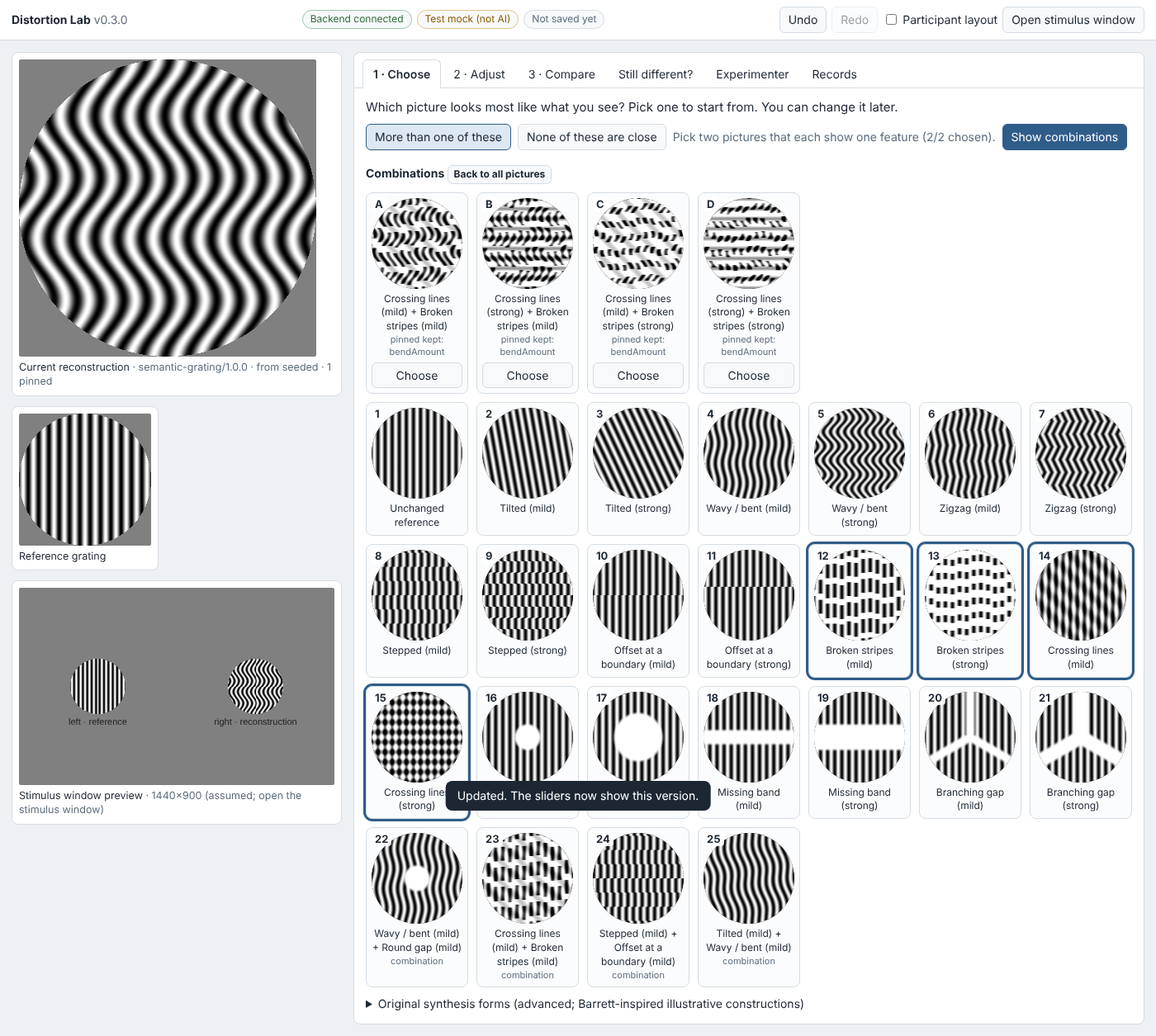
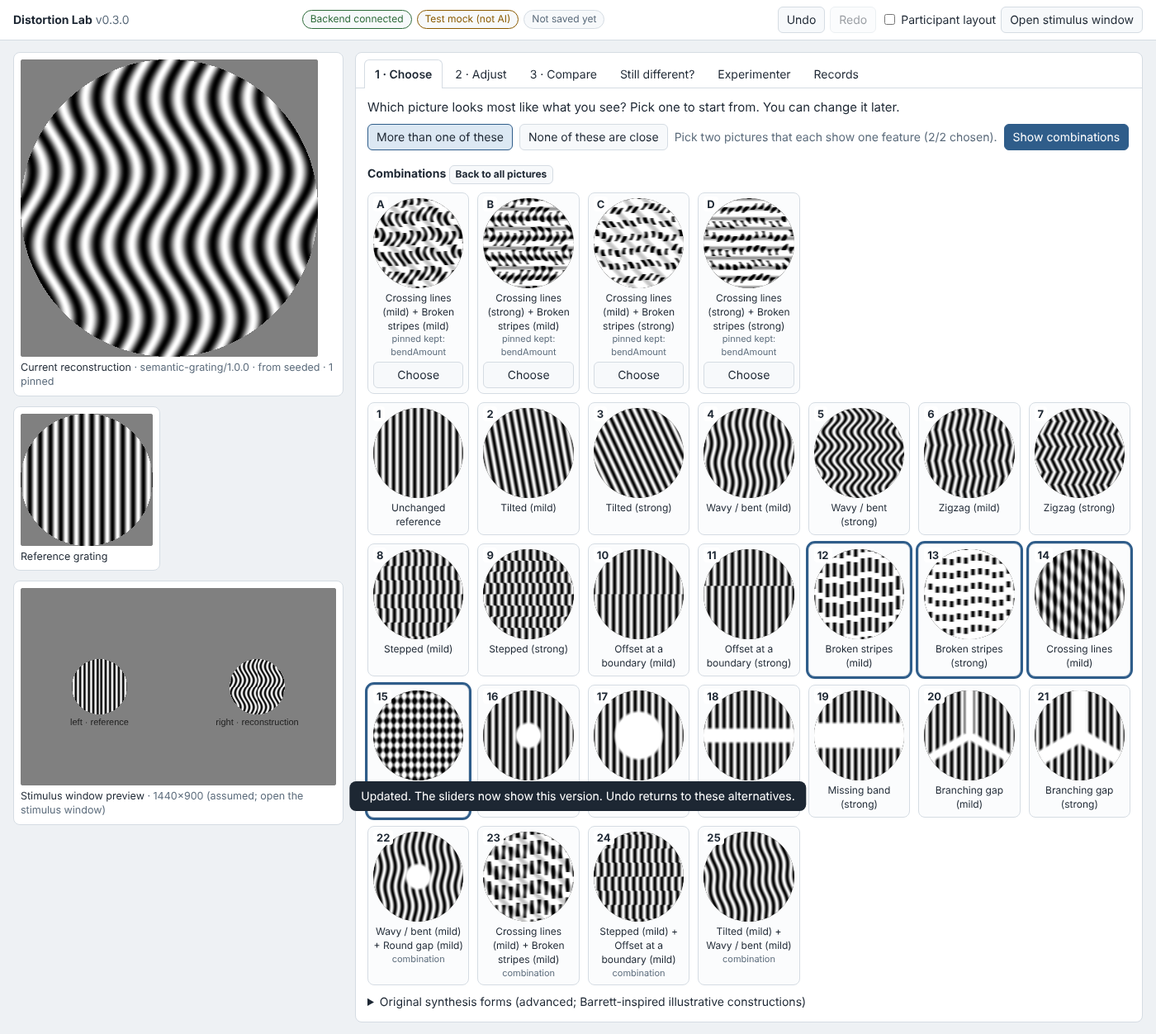
Compare: preview candidates full size without choosing; revise choice after undo
- Click a candidate (or use left/right arrows) to show it in the main view
  and, optionally, the stimulus window; 'Choose' and 'Back to current' bar
- 'Large pictures' option for the candidate grid
- Alternatives stay visible after choosing; Undo makes them choosable again
  and every choice is recorded in the set's choices list

Claude-Session: https://claude.ai/code/session_01EffKJB2Sk7JoAKuDAxyw6q

diff --git a/web/js/app.js b/web/js/app.js
@@ -13,7 +13,7 @@
   var backend = false, aiStatus = { provider: 'none', connected: false, label: 'AI off', detail: '' };
   var ui = { tab: 'gallery', selectedComponent: null, multi: false, multiSel: [], comboSet: null, currentSet: null, marking: false,
     region: null, structureKey: null, galleryKey: null, seqStart: Date.now(), stimWin: null, display: null, pendingResume: false,
-    descContext: 'still-different', saveState: { local: null, server: null, error: null }, lastDesc: null, aiSet: null };
+    preview: null, descContext: 'still-different', saveState: { local: null, server: null, error: null }, lastDesc: null, aiSet: null };
   var bc = ('BroadcastChannel' in window) ? new BroadcastChannel('distortion-lab-v2') : null;
 
   // ------------------------------------------------------------------ helpers
@@ -75,7 +75,7 @@
     undo: function () { return act(function () { var r = C.undo(S); if (!r) toast('Nothing to undo'); return r; }, true); },
     redo: function () { return act(function () { var r = C.redo(S); if (!r) toast('Nothing to redo'); return r; }, true); },
     chooseGallery: function (id) { return act(function () { return C.chooseGallery(S, id); }); },
-    requestAlternatives: function (o) { var r = act(function () { return C.requestAlternatives(S, o || {}); }); if (r) { ui.currentSet = r.id; refresh(); } return r; },
+    requestAlternatives: function (o) { ui.preview = null; var r = act(function () { return C.requestAlternatives(S, o || {}); }); if (r) { ui.currentSet = r.id; refresh(); } return r; },
     choose: function (setId, candId) { return act(function () { return C.chooseCandidate(S, setId, candId); }); },
     combine: function (a, b) { return act(function () { return C.combine(S, a, b); }); },
     setLayout: function (k, v) { return act(function () { return C.setLayout(S, k, v); }); },
@@ -121,7 +121,25 @@
   window.addEventListener('beforeunload', function () { if (!ui.pendingResume && S) saveLocal(); });
 
   // ------------------------------------------------------------------ stimulus window link
-  function stimMessage() { return { type: 'state', reference: S.reference, recon: S.work.recon, layout: S.layout, seqStart: ui.seqStart, sessionId: S.sessionId }; }
+  /** The candidate being previewed (shown large and optionally in the stimulus window), or null. */
+  function previewInfo() {
+    if (!ui.preview) return null;
+    var rec = S.proposals.filter(function (p) { return p.id === ui.preview.setId; })[0];
+    var idx = rec ? rec.candidates.map(function (c) { return c.id; }).indexOf(ui.preview.candId) : -1;
+    if (idx < 0) { ui.preview = null; return null; }
+    return { rec: rec, cand: rec.candidates[idx], letter: String.fromCharCode(65 + idx), choosable: C.canChoose(S, rec.id) };
+  }
+  function setPreview(setId, candId) {
+    var same = ui.preview && ui.preview.setId === setId && ui.preview.candId === candId;
+    ui.preview = (candId && !same) ? { setId: setId, candId: candId } : null;
+    if (ui.preview) C.log(S, 'preview-candidate', { set: setId, candidate: candId });
+    refresh(); broadcast(); scheduleSave();
+  }
+  function stimMessage() {
+    var pv = previewInfo();
+    var recon = pv && $('previewOnStim').checked ? pv.cand.recon : S.work.recon;
+    return { type: 'state', reference: S.reference, recon: recon, layout: S.layout, seqStart: ui.seqStart, sessionId: S.sessionId, previewing: !!(pv && $('previewOnStim').checked) };
+  }
   function broadcast() {
     if (!S) return;
     var m = stimMessage();
@@ -140,7 +158,15 @@
   function drawMain() {
     var c = $('reconCanvas'), n = Math.round(360 * DPR);
     if (c.width !== n) { c.width = c.height = n; }
-    D.drawSingle(c, S.work.recon, geom());
+    var pv = previewInfo();
+    D.drawSingle(c, pv ? pv.cand.recon : S.work.recon, geom());
+    $('previewBar').hidden = !pv;
+    $('reconTitle').textContent = pv ? 'Previewing ' + pv.letter + ' (not chosen)' : 'Current reconstruction';
+    if (pv) {
+      $('previewText').textContent = pv.choosable ? 'Previewing ' + pv.letter + '. Nothing has changed yet.' : 'Previewing ' + pv.letter + ' from an earlier set (Undo to choose it).';
+      $('previewChoose').textContent = 'Choose ' + pv.letter;
+      $('previewChoose').hidden = !pv.choosable;
+    }
     var r = $('refCanvas'), m = Math.round(160 * DPR);
     if (r.width !== m) { r.width = r.height = m; }
     D.drawSingle(r, C.referenceRecon(S.reference), geom());
@@ -155,7 +181,7 @@
     c.style.aspectRatio = disp.w + ' / ' + disp.h;
     var W = Math.round(cssW * DPR), H = Math.round(cssH * DPR);
     if (c.width !== W || c.height !== H) { c.width = W; c.height = H; }
-    var info = D.drawDisplay(c.getContext('2d'), cssW, cssH, DPR, { reference: S.reference, recon: S.work.recon, layout: S.layout },
+    var info = D.drawDisplay(c.getContext('2d'), cssW, cssH, DPR, { reference: S.reference, recon: stimMessage().recon, layout: S.layout },
       { scale: cssW / disp.w, labels: true, now: Date.now(), timing: { seqStart: ui.seqStart } });
     // Warnings are evaluated at full stimulus-window scale.
     var n = Math.max(8, Math.min(2048, Math.ceil(S.layout.diameter * S.layout.ppd * ((ui.display && ui.display.dpr) || 1))));
@@ -385,17 +411,38 @@
     if (rec.source === 'combination') info.push('combinations of ' + (rec.settings.families || []).join(' + '));
     if (rec.pinnedInFocus && rec.pinnedInFocus.length) info.push('pinned and left unchanged: ' + rec.pinnedInFocus.join(', '));
     if (rec.reason) info.push(rec.reason);
-    if (rec.choice) info.push(rec.choice === 'keep' ? 'You kept the current version.' : 'You chose ' + rec.choice.replace('p', '#') + '. Adjust further, or ask for more alternatives.');
-    if (stale && !rec.choice) info.push('These alternatives were made for an earlier version. Request new ones.');
+    var choosable = !stale;
+    if (rec.choice && rec.choice !== 'keep' && stale) info.push('You chose ' + String.fromCharCode(65 + Number(rec.choice.slice(1))) + '. Undo to come back to these and choose a different one, or ask for more alternatives.');
+    else if (rec.choice === 'keep') info.push('You kept the current version. You can still choose one of these.');
+    else if (stale) info.push('These alternatives were made for an earlier version. Request new ones.');
     $('altInfo').textContent = info.join(' · ');
-    if (rec.choice) return;
-    box.append(tile({ id: 'current', recon: S.work.recon, badge: '★', caption: 'Current', current: true, px: 150,
-      button: el('button', { text: 'Keep current', disabled: stale, onclick: function () { Lab.choose(rec.id, 'keep'); } }) }));
+    var big = !!S.settings.bigCandidates, px = big ? 300 : 150;
+    box.classList.toggle('big', big);
+    var pv = ui.preview && ui.preview.setId === rec.id ? ui.preview.candId : null;
+    var cur = tile({ id: 'current', recon: S.work.recon, badge: '★', caption: 'Current', current: !pv, px: px,
+      onclick: function () { setPreview(null, null); },
+      button: el('button', { text: 'Keep current', disabled: !choosable, onclick: function (e) { e.stopPropagation(); ui.preview = null; Lab.choose(rec.id, 'keep'); } }) });
+    box.append(cur);
     rec.candidates.forEach(function (c, i) {
-      box.append(tile({ id: c.id, recon: c.recon, badge: String.fromCharCode(65 + i), caption: c.label, px: 150,
+      var L = String.fromCharCode(65 + i), chosen = rec.choice === c.id && stale;
+      var t = tile({ id: c.id, recon: c.recon, badge: L + (chosen ? ' ✓' : ''), caption: c.label, px: px,
         sub: c.changes && c.changes.length ? c.changes.map(function (x) { return x.path + ' ' + fmt(x.from) + '→' + fmt(x.to); }).join('; ') : (c.rationale || ''),
-        button: el('button', { text: 'Choose ' + String.fromCharCode(65 + i), disabled: stale, onclick: function () { if (Lab.choose(rec.id, c.id)) toast('Updated. The sliders now show this version.'); } }) }));
+        onclick: function () { setPreview(rec.id, c.id); },
+        button: el('button', { text: chosen ? 'Chosen' : 'Choose ' + L, disabled: !choosable, onclick: function (e) {
+          e.stopPropagation(); ui.preview = null; if (Lab.choose(rec.id, c.id)) toast('Updated. The sliders now show this version. Undo returns to these alternatives.'); } }) });
+      if (pv === c.id) t.classList.add('previewing');
+      if (!choosable) t.classList.add('stale');
+      box.append(t);
     });
+  }
+  function cyclePreview(dir) {
+    var rec = ui.currentSet && S.proposals.filter(function (p) { return p.id === ui.currentSet; })[0];
+    if (!rec || !rec.candidates.length) return;
+    var ids = [null].concat(rec.candidates.map(function (c) { return c.id; }));
+    var cur = ui.preview && ui.preview.setId === rec.id ? ids.indexOf(ui.preview.candId) : 0;
+    var next = ids[(cur + dir + ids.length) % ids.length];
+    ui.preview = null;
+    setPreview(rec.id, next);
   }
 
   // ------------------------------------------------------------------ describe
@@ -629,6 +676,7 @@
 
   // ------------------------------------------------------------------ tabs, refresh
   function switchTab(t) {
+    if (t !== ui.tab && ui.preview) { ui.preview = null; broadcast(); }
     ui.tab = t;
     document.querySelectorAll('.tabs [data-tab]').forEach(function (b) { b.classList.toggle('active', b.dataset.tab === t); b.setAttribute('aria-selected', String(b.dataset.tab === t)); });
     document.querySelectorAll('.tab').forEach(function (p) { p.hidden = p.id !== 'tab-' + t; });
@@ -644,6 +692,7 @@
     document.querySelectorAll('input[name=propScale]').forEach(function (r) { r.checked = r.value === S.settings.proposalScale; });
     $('showAdvanced').checked = S.settings.includeAdvanced;
     $('shrink').checked = S.settings.shrinkRepeated;
+    $('bigCands').checked = !!S.settings.bigCandidates;
     $('showLabels').checked = S.settings.showLabels;
     document.body.classList.toggle('nolabels', !S.settings.showLabels || $('participantMode').checked);
     drawMain();
@@ -688,6 +737,14 @@
   $('showAdvanced').addEventListener('change', function (e) { S.settings.includeAdvanced = e.target.checked; ui.structureKey = null; refresh(); scheduleSave(); });
   $('shrink').addEventListener('change', function (e) { S.settings.shrinkRepeated = e.target.checked; scheduleSave(); });
   $('showLabels').addEventListener('change', function (e) { S.settings.showLabels = e.target.checked; refresh(); scheduleSave(); });
+  $('bigCands').addEventListener('change', function (e) { S.settings.bigCandidates = e.target.checked; refresh(); scheduleSave(); });
+  $('previewOnStim').addEventListener('change', function () { broadcast(); });
+  $('previewBack').addEventListener('click', function () { setPreview(null, null); });
+  $('previewChoose').addEventListener('click', function () {
+    var pv = previewInfo(); if (!pv) return;
+    ui.preview = null;
+    if (Lab.choose(pv.rec.id, pv.cand.id)) toast('Chose ' + pv.letter + '. Undo returns to these alternatives.');
+  });
   $('showAlts').addEventListener('click', function () { Lab.requestAlternatives({ focus: $('altFocus').value }); });
   $('repeatAlts').addEventListener('click', function () { Lab.requestAlternatives({ focus: $('altFocus').value, repeat: true }); });
   $('markRegion').addEventListener('click', function () { ui.marking = !ui.marking; $('markRegion').classList.toggle('active', ui.marking); $('reconCanvas').parentElement.classList.toggle('marking', ui.marking); if (ui.marking) toast('Drag on the picture to mark the area.'); });
@@ -744,6 +801,11 @@
     var t = e.target;
     if (t.tagName === 'TEXTAREA' || (t.tagName === 'INPUT' && (t.type === 'text' || !t.type))) return;
     var mod = e.metaKey || e.ctrlKey, k = e.key.toLowerCase();
+    if (ui.tab === 'alternatives' && !mod && t.tagName !== 'SELECT' && t.tagName !== 'INPUT') {
+      if (e.key === 'ArrowRight') { e.preventDefault(); cyclePreview(1); return; }
+      if (e.key === 'ArrowLeft') { e.preventDefault(); cyclePreview(-1); return; }
+      if (e.key === 'Escape' && ui.preview) { e.preventDefault(); setPreview(null, null); return; }
+    }
     if (mod && k === 'z' && !e.shiftKey) { e.preventDefault(); Lab.undo(); }
     else if ((mod && k === 'z' && e.shiftKey) || (mod && k === 'y')) { e.preventDefault(); Lab.redo(); }
   });

diff --git a/web/js/core.js b/web/js/core.js
@@ -835,28 +835,36 @@
   /** Choose a candidate (or 'keep'). Keep current never changes the reconstruction. */
   function chooseCandidate(s, setId, candId) {
     var rec = findSet(s, setId);
-    if (rec.choice !== null) fail('A choice was already recorded for ' + setId);
+    var isBase = JSON.stringify(rec.base.recon) === JSON.stringify(s.work.recon);
+    if (!isBase)
+      throw cannotApply(rec.choice !== null && rec.choice !== 'keep'
+        ? 'You already chose from these alternatives. Undo back to the version they were made from to choose a different one, or request new alternatives.'
+        : 'The reconstruction changed after these alternatives were shown. Request new alternatives.');
+    if (!rec.choices) rec.choices = rec.choice !== null ? [{ choice: rec.choice, time: rec.choiceTime }] : [];
     if (candId === 'keep') {
-      rec.choice = 'keep'; rec.choiceTime = nowISO();
-      if (JSON.stringify(rec.base.recon) === JSON.stringify(s.work.recon))
-        s.neighborhood = { round: rec.settings && rec.settings.round || 0, anchor: JSON.stringify(s.work.recon) };
+      rec.choice = 'keep'; rec.choiceTime = nowISO(); rec.choices.push({ choice: 'keep', time: rec.choiceTime });
+      s.neighborhood = { round: rec.settings && rec.settings.round || 0, anchor: JSON.stringify(s.work.recon) };
       log(s, 'keep-current', { set: setId });
       return false;
     }
     var c = rec.candidates.filter(function (x) { return x.id === candId; })[0];
     if (!c) fail('Unknown candidate ' + candId);
-    if (JSON.stringify(rec.base.recon) !== JSON.stringify(s.work.recon))
-      throw cannotApply('The reconstruction changed after these alternatives were shown. Request new alternatives.');
     // Re-check pins at choice time (pins may have been added since display).
     var r = withPins(s.work, validateRecon(c.recon));
     var violated = s.work.pins.filter(function (p) { return JSON.stringify(getValue(c.recon, p)) !== JSON.stringify(getValue(s.work.recon, p)); });
     if (violated.length) throw cannotApply('This alternative would change pinned ' + violated.join(', ') + '. Request new alternatives.', violated);
     var anchorRound = rec.settings && rec.settings.round || 0;
+    var revised = rec.choices.length > 0;
     commit(s, { recon: r.recon, pins: s.work.pins.slice(), origin: { type: rec.source, set: setId, candidate: candId } },
-      { action: 'choose-candidate', label: 'Choose alternative ' + candId, detail: { set: setId, candidate: candId, changes: c.changes } });
-    rec.choice = candId; rec.choiceTime = nowISO();
+      { action: 'choose-candidate', label: 'Choose alternative ' + candId, detail: { set: setId, candidate: candId, changes: c.changes, revisedChoice: revised } });
+    rec.choice = candId; rec.choiceTime = nowISO(); rec.choices.push({ choice: candId, time: rec.choiceTime });
     s.neighborhood = { round: anchorRound, anchor: JSON.stringify(s.work.recon) };
     return true;
+  }
+  /** Can a choice be made from this set now (i.e. is the reconstruction still the set's base)? */
+  function canChoose(s, setId) {
+    var rec = findSet(s, setId);
+    return JSON.stringify(rec.base.recon) === JSON.stringify(s.work.recon);
   }
 
   // ---------------------------------------------------------------- descriptions, outcome, acceptance
@@ -1024,7 +1032,7 @@
     addComponent: addComponent, removeComponent: removeComponent, mixLegacy: mixLegacy,
     galleryItems: galleryItems, galleryItem: galleryItem, galleryFamily: galleryFamily, templateRecon: templateRecon, combinationRecons: combinationRecons,
     chooseGallery: chooseGallery, recordGalleryOutcome: recordGalleryOutcome,
-    generateProposals: generateProposals, requestAlternatives: requestAlternatives, recordCandidates: recordCandidates, combine: combine, chooseCandidate: chooseCandidate,
+    generateProposals: generateProposals, requestAlternatives: requestAlternatives, recordCandidates: recordCandidates, combine: combine, chooseCandidate: chooseCandidate, canChoose: canChoose,
     captureDescription: captureDescription, setOutcome: setOutcome, accept: accept, setReference: setReference, setLayout: setLayout, eyeRouting: eyeRouting,
     applyOperations: applyOperations, aiContext: aiContext, importSession: importSession, devRequest: devRequest
   };

diff --git a/tests/e2e.js b/tests/e2e.js
@@ -98,7 +98,7 @@ function post(port, p, body) {
     assert(set.candidates.length > 0, 'candidates shown');
     assert(set.candidates.every((c) => c.recon.params.bendAmount === pinnedVal), 'pin respected');
     await shot('03-compare');
-    await page.click('text=Choose B');
+    await page.click('#candidates button:has-text("Choose B")');
     const w = await work();
     assert(J(w.recon) === J(set.candidates[1].recon), 'candidate applied');
     await page.click('[data-tab=adjust]');
@@ -113,7 +113,7 @@ function post(port, p, body) {
     await page.click('#repeatAlts');
     let s = await sess();
     assert(s.proposals[s.proposals.length - 1].settings.round === 1, 'round 1');
-    await page.click('text=Keep current');
+    await page.click('#candidates button:has-text("Keep current")');
     assert(J(await work()) === before);
     s = await sess();
     assert(s.proposals[s.proposals.length - 1].choice === 'keep');
@@ -121,6 +121,37 @@ function post(port, p, body) {
     await page.click('#showAlts');
     s = await sess();
     assert(s.proposals[s.proposals.length - 1].settings.scale === 'fine');
+  });
+
+  await step('preview a candidate large without choosing; choose from preview; undo and choose another', async () => {
+    await page.click('[data-tab=alternatives]');
+    await page.check('input[name=propScale][value=coarse]');
+    await page.click('#showAlts');
+    const before = J(await work());
+    const s = await sess();
+    const set = s.proposals[s.proposals.length - 1];
+    await page.click('#candidates [data-id="p1"] canvas');
+    assert((await page.textContent('#reconTitle')).includes('Previewing B'), 'preview title');
+    assert(J(await work()) === before, 'preview does not change the reconstruction');
+    const big = await page.evaluate(() => { const c = document.getElementById('reconCanvas'); return c.toDataURL(); });
+    await page.keyboard.press('ArrowRight');
+    assert((await page.textContent('#reconTitle')).includes('Previewing C'), 'arrow cycles');
+    const big2 = await page.evaluate(() => document.getElementById('reconCanvas').toDataURL());
+    assert(big !== big2, 'large view changes with preview');
+    await page.check('#bigCands');
+    assert(await page.evaluate(() => document.getElementById('candidates').classList.contains('big')));
+    await shot('03b-preview');
+    await page.click('#previewChoose');
+    assert(J((await work()).recon) === J(set.candidates[2].recon), 'chose C from preview');
+    assert((await page.textContent('#reconTitle')) === 'Current reconstruction');
+    assert(await page.isVisible('#candidates [data-id="p0"]'), 'alternatives still visible after choosing');
+    await page.click('#undo');
+    assert(J(await work()) === before, 'undo back to the set base');
+    await page.click('#candidates button:has-text("Choose A")');
+    assert(J((await work()).recon) === J(set.candidates[0].recon), 'different choice after undo');
+    const rec = (await sess()).proposals.find((p) => p.id === set.id);
+    assert(J(rec.choices.map((c) => c.choice)) === J(['p2', 'p0']), J(rec.choices));
+    await page.uncheck('#bigCands');
   });
 
   await step('more-than-one: combine two features; pins kept; choice revisable', async () => {

diff --git a/web/index.html b/web/index.html
@@ -42,7 +42,12 @@
         <canvas id="reconCanvas" width="360" height="360" aria-label="Current reconstruction"></canvas>
         <div id="markOverlay" class="mark" hidden></div>
       </div>
-      <figcaption>Current reconstruction <span id="reconInfo" class="muted researcher"></span></figcaption>
+      <div id="previewBar" class="preview-bar" hidden>
+        <span id="previewText"></span>
+        <button id="previewChoose" class="primary small">Choose</button>
+        <button id="previewBack" class="small">Back to current</button>
+      </div>
+      <figcaption><span id="reconTitle">Current reconstruction</span> <span id="reconInfo" class="muted researcher"></span></figcaption>
     </figure>
     <figure class="view">
       <canvas id="refCanvas" width="160" height="160" aria-label="Reference grating"></canvas>
@@ -115,6 +120,11 @@
         <label><input type="radio" name="propScale" value="coarse" checked> larger differences</label>
         <label><input type="radio" name="propScale" value="fine"> smaller differences</label>
         <label class="toggle" title="Each repeat around the same version uses smaller differences"><input type="checkbox" id="shrink" checked> shrink on repeat</label>
+      </div>
+      <div class="row wrap">
+        <label class="toggle"><input type="checkbox" id="bigCands"> large pictures</label>
+        <label class="toggle researcher" title="While previewing, the stimulus window shows the previewed version in the reconstruction position"><input type="checkbox" id="previewOnStim" checked> show previews in the stimulus window</label>
+        <span class="muted">Click a picture to see it large (← → to flip between them). Nothing changes until you choose.</span>
       </div>
       <div class="row">
         <button id="showAlts" class="primary">Show alternatives</button>

diff --git a/tests/core.test.js b/tests/core.test.js
@@ -265,7 +265,16 @@ test('Keep current never changes the reconstruction; choosing updates it and rec
   assert.equal(C.chooseCandidate(s, rec.id, 'keep'), false);
   assert.equal(J(s.work), before); assert.equal(s.undo.length, undoLen);
   assert.equal(rec.choice, 'keep');
-  assert.throws(() => C.chooseCandidate(s, rec.id, 'p0'), /already/);
+  // changing one's mind after Keep current is allowed (still the same base)
+  C.chooseCandidate(s, rec.id, 'p0');
+  assert.equal(J(s.work.recon), J(rec.candidates[0].recon));
+  assert.throws(() => C.chooseCandidate(s, rec.id, 'p1'), /already chose/);
+  C.undo(s);
+  assert.equal(J(s.work), before, 'undo returns to the set base');
+  C.chooseCandidate(s, rec.id, 'p1');
+  assert.equal(J(s.work.recon), J(rec.candidates[1].recon), 'a different choice after undo');
+  assert.deepEqual(rec.choices.map((c) => c.choice), ['keep', 'p0', 'p1']);
+  C.undo(s);
   const rec2 = C.requestAlternatives(s, {});
   C.chooseCandidate(s, rec2.id, 'p2');
   assert.equal(J(s.work.recon), J(rec2.candidates[2].recon));

diff --git a/web/css/app.css b/web/css/app.css
@@ -78,6 +78,11 @@ legend { font-size: 12.5px; color: var(--muted); }
 
 .grid { display: grid; grid-template-columns: repeat(auto-fill, minmax(118px, 1fr)); gap: 10px; margin: 10px 0; }
 .grid.cand { grid-template-columns: repeat(auto-fill, minmax(150px, 1fr)); }
+.grid.cand.big { grid-template-columns: repeat(auto-fill, minmax(300px, 1fr)); }
+.tile.previewing { outline: 3px solid var(--accent); outline-offset: 1px; }
+.tile.stale { opacity: .6; }
+.preview-bar { display: flex; flex-wrap: wrap; gap: 6px; align-items: center; margin-top: 6px; padding: 6px 8px; border-radius: 6px; background: var(--active); font-size: 13px; }
+.preview-bar[hidden] { display: none; }
 .tile { border: 1px solid var(--line); border-radius: 8px; padding: 6px; background: var(--tile); text-align: center; cursor: pointer; position: relative; }
 .tile:hover { border-color: var(--accent); }
 .tile.selected { outline: 3px solid var(--accent); }

diff --git a/docs/TESTING.md b/docs/TESTING.md
@@ -40,7 +40,7 @@ Environment: Linux, Python 3.13.18 and Python 3.9.25 (backend suite run under bo
 | `tools/build_data.py --check` (generated browser data matches `shared/`) | up to date |
 | Python `unittest` (backend, model, AI bridge incl. Claude Code provider via a stand-in CLI, presentation boundary, parity): 23 tests | **OK** under 3.13 and 3.9 |
 | Node core tests: 24 tests | **24 pass, 0 fail** |
-| Browser end-to-end (Playwright/Chromium against the real backend): 17 steps | **17/17 pass** |
+| Browser end-to-end (Playwright/Chromium against the real backend): 18 steps | **18/18 pass** |
 
 ### What is covered
 
@@ -51,7 +51,7 @@ Environment: Linux, Python 3.13.18 and Python 3.9.25 (backend suite run under bo
 | Pins are never changed by proposals, gallery, combinations, AI operations or dials; impossible cases are refused with an explanation and no state change | core randomised pin test (25 trials × 6 foci × 2 scales); e2e pinned slider, refused legacy switch, dial on pinned field; backend mock-AI test |
 | Coarse/fine spacing and repeated smaller neighbourhoods | core `coarse vs fine…` (measured mean step ≈1×, ≈0.25×, ≈0.36× at round 2); e2e repeat round |
 | Deterministic seeded alternatives, reproducible from recorded settings | core `seeded proposals are deterministic…` |
-| Keep current changes nothing; choosing updates the reconstruction and sliders | core and e2e |
+| Keep current changes nothing; choosing updates the reconstruction and sliders; preview shows a candidate large without changing anything; undo allows a different choice | core and e2e |
 | Combined features (two families; overlap explained) | core `combining two feature families…`; e2e more-than-one |
 | Controls do what they advertise (bend, zigzag/step, offset, gap size/position/residual/shape, breaks, crossing, global) | core equation-level checks against docs/MODEL.md |
 | Semantic "unchanged reference" equals the reference grating pixel for pixel | core and in-app check |

diff --git a/README.md b/README.md
@@ -58,7 +58,9 @@ dials. In this mode, autosave goes only to the browser's local storage.
 3. **Compare.** **Show alternatives** shows four nearby versions next to the current one. They mix single and
    coordinated two-parameter changes, are deterministic and seeded, and use coarse or fine spacing.
    **More, closer to current** repeats with a smaller neighbourhood. Choosing one updates the same reconstruction and
-   its sliders. **Keep current** changes nothing. The focus can be a single feature.
+   its sliders. **Keep current** changes nothing. The focus can be a single feature. **Click any picture** to preview it
+   full size, in the main view and the stimulus window, without choosing it. ← → flip between them, and *large pictures* enlarges
+   the tiles. After choosing, **Undo** returns to the same alternatives so a different one can be chosen.
 4. **Still different?** Captures the participant's **verbatim** description, an optional dragged area on the picture,
    and optional property hints. From here you can request alternatives focused on a property, record an outcome
    (*matches, close, can't be matched, keeps changing, can't tell, can't see it*), ask the optional AI bridge, or export

diff --git a/docs/MODEL.md b/docs/MODEL.md
@@ -139,8 +139,11 @@ Proposals are deterministic and seeded. They are not AI-generated images.
   Any manual edit or new starting point resets it.
 - **Recording**: every set records `seed`, all settings, the base state, all candidates and the choice (`keep`, a candidate id, or none).
   Regenerating with the recorded settings reproduces the set exactly (tested).
+- **Preview**: clicking a candidate shows it in the main view and, optionally, in the stimulus window without changing the
+  reconstruction. Each preview is logged (`preview-candidate`).
 - **Choice**: choosing replaces the reconstruction (one undo entry) and the sliders show the new values. "Keep current" changes nothing.
-  A set made for an earlier version cannot be applied.
+  A choice can be made whenever the reconstruction equals the set's base version: after *Keep current*, or after undoing a
+  choice. Every choice is recorded in `choices` (with `choice` = the latest). Otherwise the set cannot be applied.
 
 ## Pins and compositions
 
